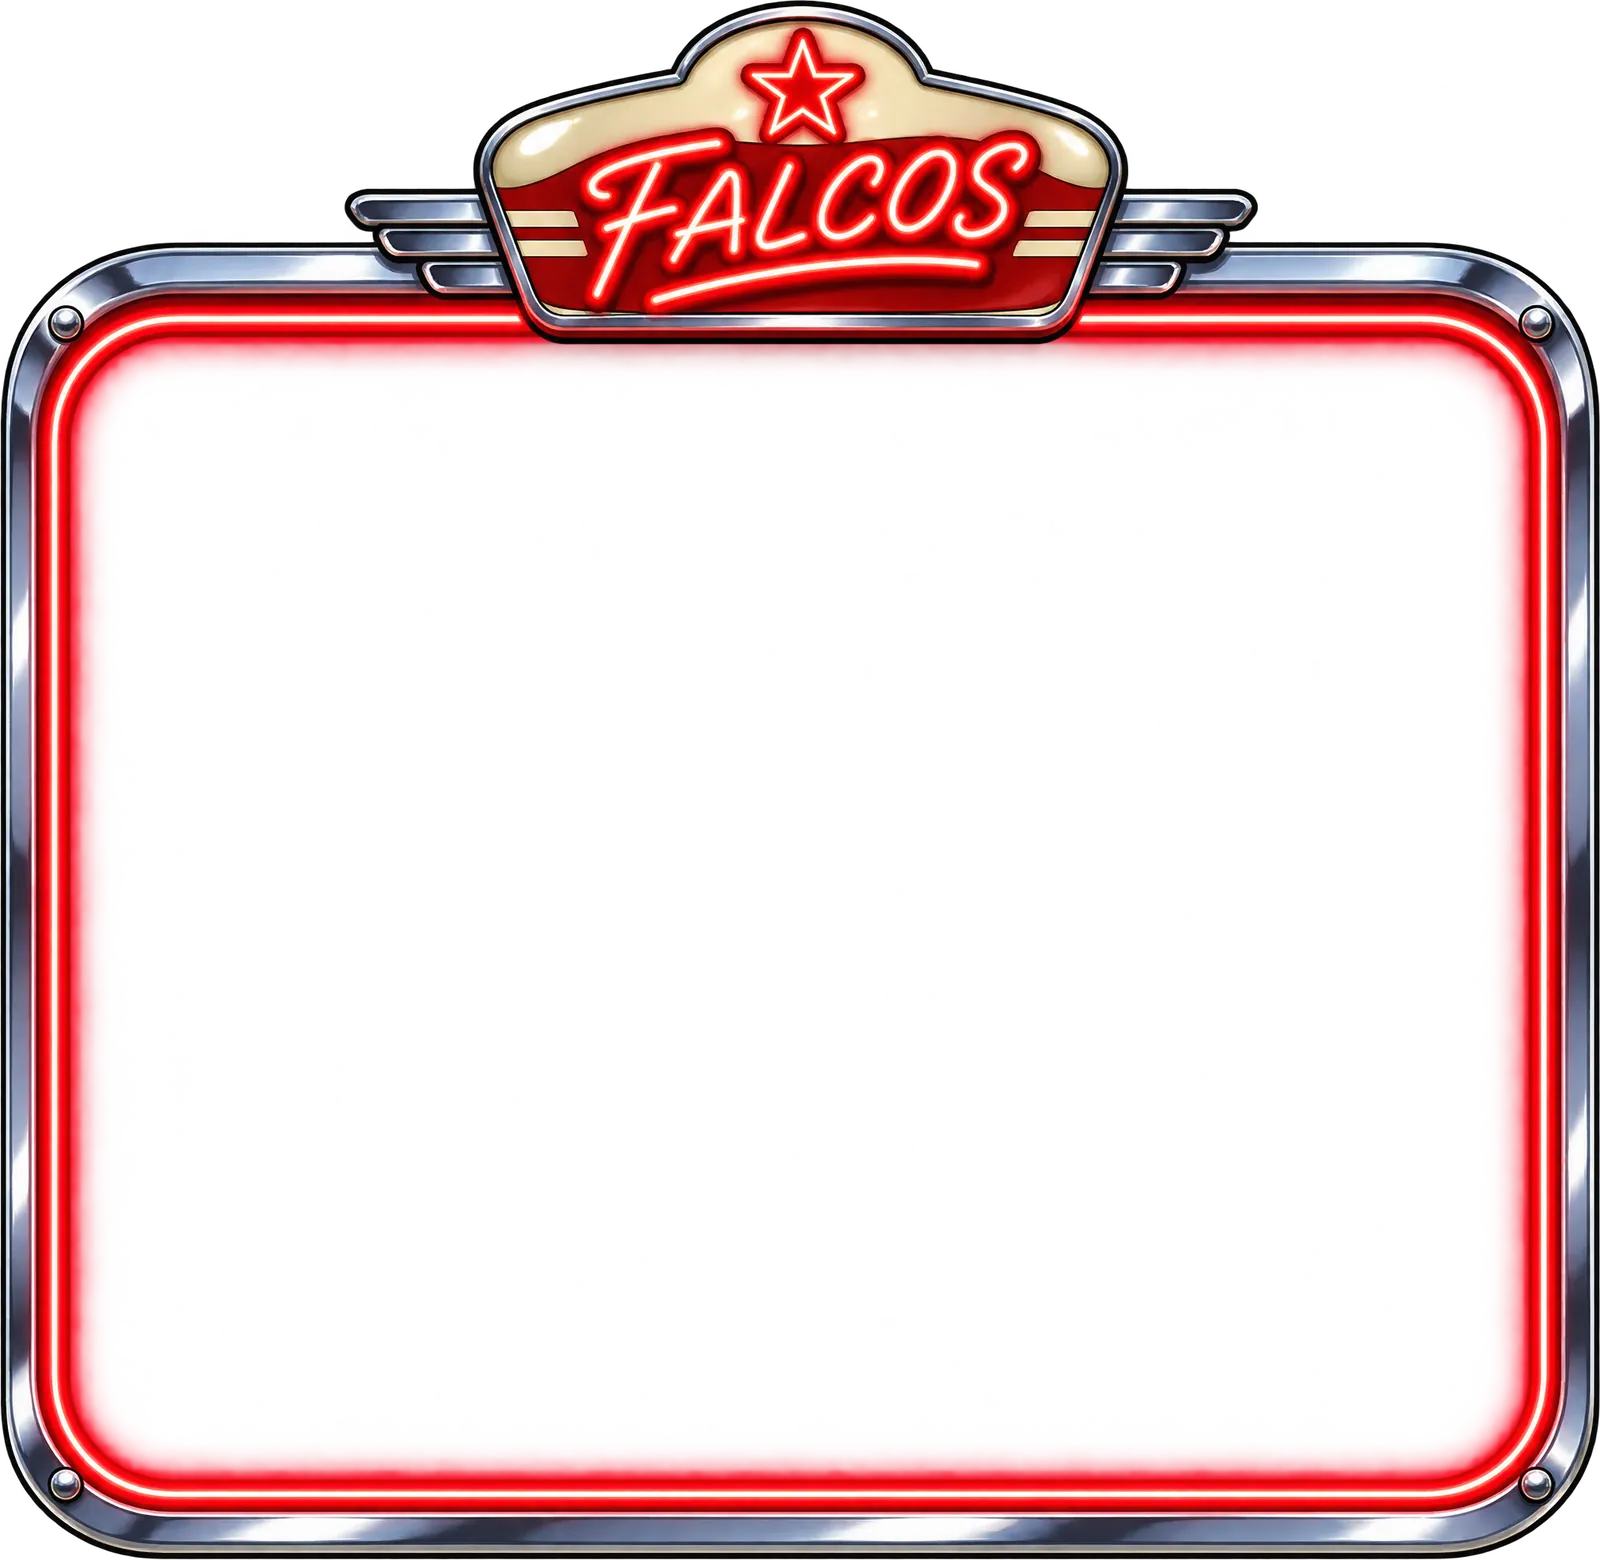
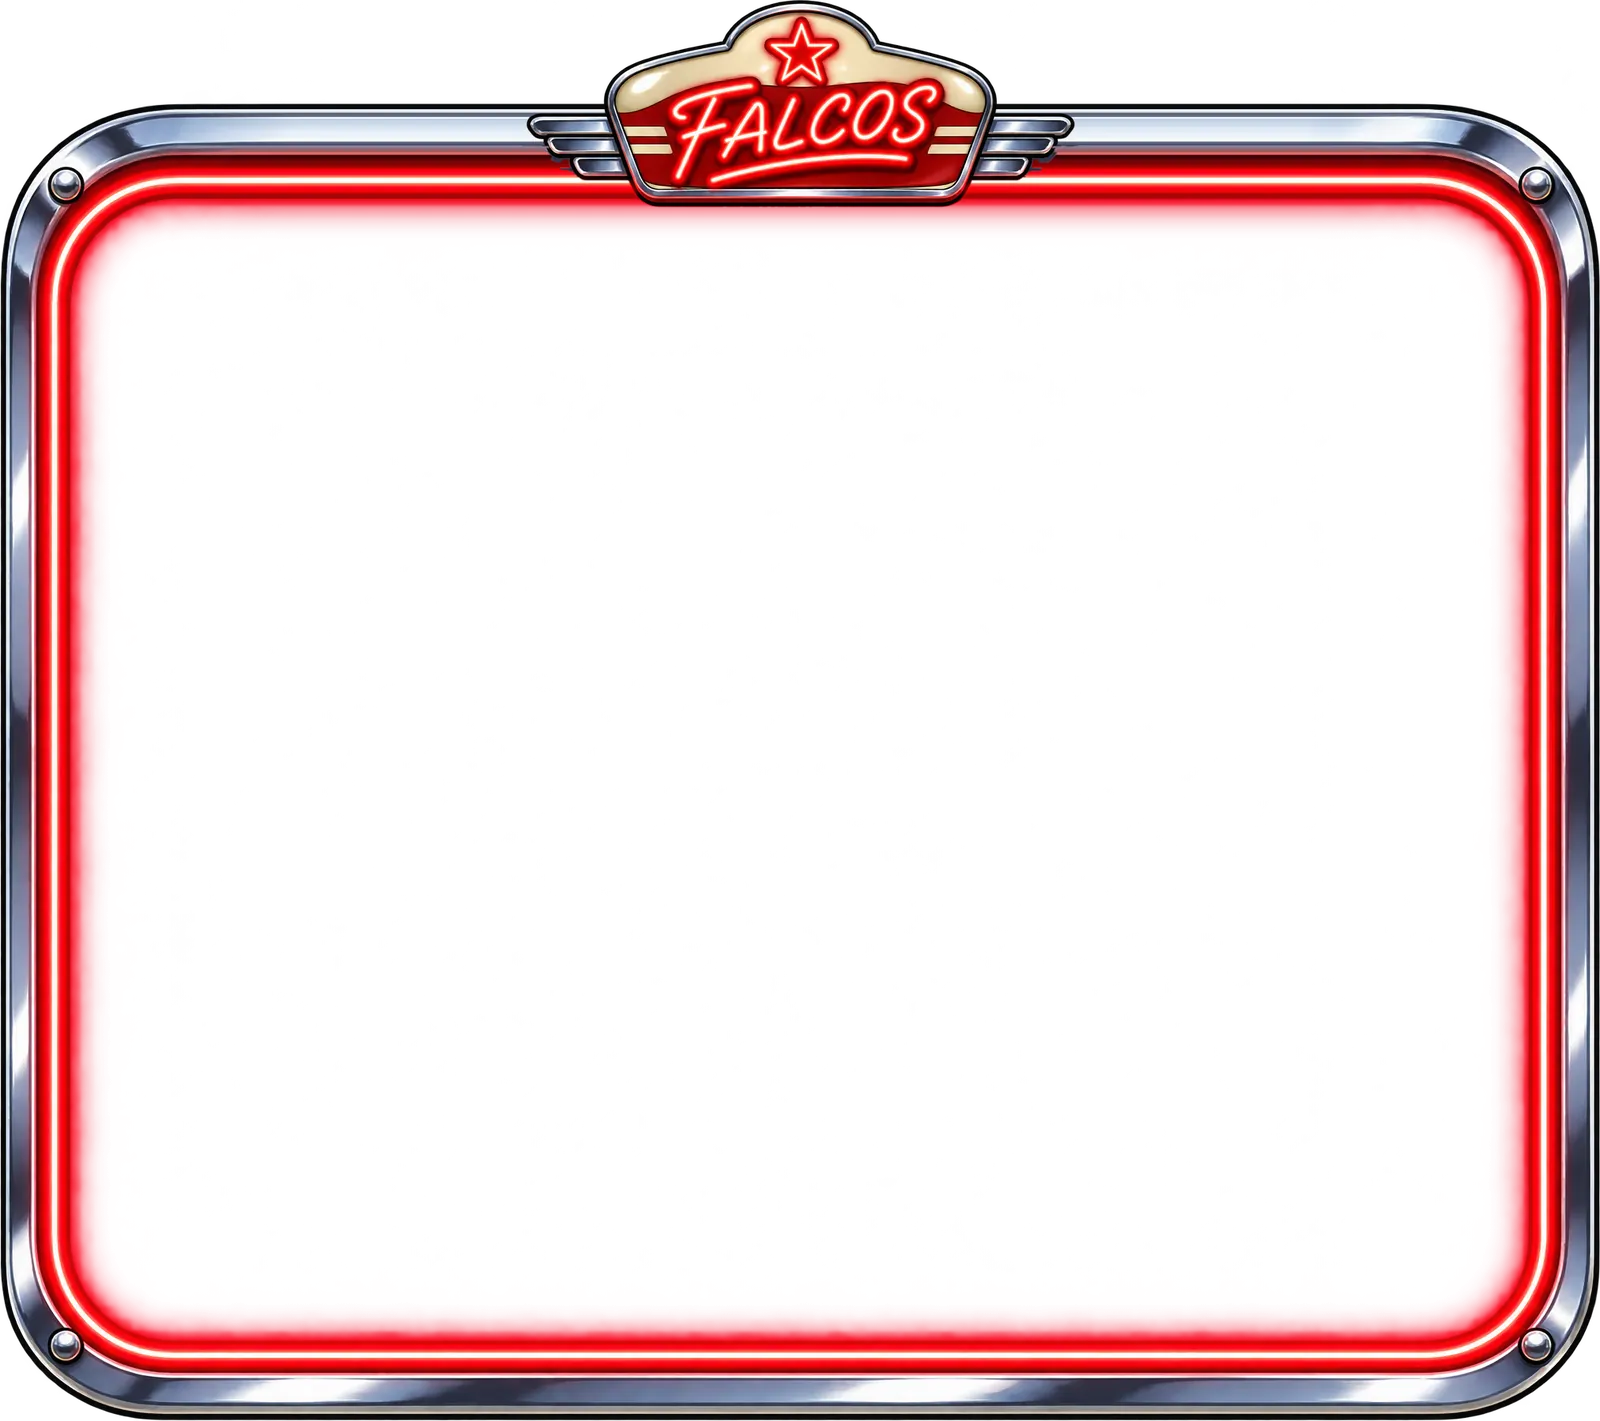
Falcos: bigger board again - the FALCOS sign on the frame at 60% (shrink_topper.py: the chrome bar rebuilt under it), so the glass and every symbol are ~9% bigger on a wide screen

Changed region(s): [[0.0, 0.0, 1.0, 1.0]]

diff --git a/frontend/index.html b/frontend/index.html
@@ -77,7 +77,7 @@
     --sym-fit: .92;    /* a symbol fills this share of its tile (SYM_FIT in the script, boardgl.js) */
     /* frame_sq.webp's glass opening, as fractions of the picture (frame_sq.json - startBoardFrame() sets
        them from the file, these are only the fallback): left, top, width, height */
-    --fo-l: .0499; --fo-t: .2225; --fo-w: .90119; --fo-h: .72023;
+    --fo-l: .0504; --fo-t: .14627; --fo-w: .90118; --fo-h: .79088;
   }
   @media (max-width: 900px) and (max-height: 1000px), (max-height: 500px) {
     :root { --wall-img: url("assets/bonus_wall_m.webp"); --zombie-img: url("assets/scene/plate_zombie_m.webp"); }

diff --git a/tools/falcos/shrink_topper.py b/tools/falcos/shrink_topper.py
@@ -1,0 +1,81 @@
+"""The board frame with a smaller FALCOS sign: art/falcos/raw/board_frame_sq.png -> board_frame_sq_small.png
+
+    .venv/bin/python tools/falcos/shrink_topper.py [SCALE]      (default .6; then compress_assets.py)
+
+The page is fitted to the screen's height, and the sign on top of the frame was a sixth of the frame's
+height - room the board could not use (owner, 2026-11-10: "make it fill in the screen more"). This:
+  * rebuilds the chrome bar under the sign from a plain stretch of it (a strip right of the right wing,
+    tiled across: the bar is the same all along);
+  * lifts the sign out (everything above the bar, plus whatever differs from the rebuilt bar: the plate,
+    its wings and its shadow on the bar);
+  * puts it back at SCALE, centred, its foot where it was - so it still overlaps the bar the same way.
+compress_assets.py trims the result and measures its glass opening (frame_sq.webp / frame_sq.json).
+"""
+import os, sys
+import numpy as np
+from PIL import Image, ImageFilter
+
+ROOT = os.path.dirname(os.path.dirname(os.path.dirname(os.path.abspath(__file__))))
+RAW = os.path.join(ROOT, 'art', 'falcos', 'raw')
+SCALE = float(sys.argv[1]) if len(sys.argv) > 1 else .6
+
+src = Image.open(os.path.join(RAW, 'board_frame_sq.png')).convert('RGBA')
+a = np.array(src).astype(np.int16)
+H, W = a.shape[:2]
+A = a[..., 3]
+
+# the bar: its top edge (first solid row at the plain strip) and the foot of its neon glow
+STRIP = (1700, 1740)
+col = A[:, STRIP[0]]
+bar_top = int(np.argmax(col > 40))
+bar_bot = bar_top + int(np.argmax(col[bar_top:] < 2)) + 4
+# the sign's span: what is solid above the bar
+above = A[:bar_top] > 40
+xs = np.where(above.any(axis=0))[0]
+sx0, sx1 = int(xs.min()) - 8, int(xs.max()) + 9
+sy0 = int(np.argmax(above.any(axis=1)))
+
+# the bar rebuilt under the sign: the plain strip tiled across, nothing above the bar
+bar = a.copy()
+# one column, averaged over the strip, stretched across (a tiled strip showed its seams)
+# over the bar's whole straight run, faded into the original over FADE px at each end (no seam)
+column = a[bar_top:bar_bot, STRIP[0]:STRIP[1]].mean(axis=1)
+RUN, FADE = (230, 1820), 160
+k = np.clip(np.minimum(np.arange(W) - RUN[0], RUN[1] - np.arange(W)) / FADE, 0, 1)[None, :, None]
+bar[bar_top:bar_bot] = (a[bar_top:bar_bot] * (1 - k) + column[:, None, :] * k).round().astype(np.int16)
+bar[:bar_top, sx0:sx1] = 0
+
+# the sign: everything above the bar, plus what differs from the rebuilt bar (the plate, wings, shadow)
+diff = np.abs(a - bar).max(axis=2)
+m = np.zeros((H, W), np.uint8)
+m[:bar_top, sx0:sx1] = 255
+# in the bar's rows the sign is what its black outline closes off: flood the bar from the region's sides
+# and foot through everything that is not outline - what the flood cannot reach is the plate and the wings
+# (and of that, only what differs from the plain bar: the bar's own outline stays with the bar)
+from scipy import ndimage
+rgb = a[bar_top:bar_bot, sx0:sx1, :3].astype(np.float32)
+luma = rgb @ np.array([.299, .587, .114], np.float32)
+wall = (luma < 60) & (A[bar_top:bar_bot, sx0:sx1] > 160)
+lab, _ = ndimage.label(~wall)
+edge = np.unique(np.concatenate([lab[:, 0], lab[:, -1], lab[-1, :]]))
+outside = np.isin(lab, edge[edge > 0])
+region = ndimage.binary_fill_holes(~outside & ~(wall & (diff[bar_top:bar_bot, sx0:sx1] <= 40)))
+m[bar_top:bar_bot, sx0:sx1] = np.where(region, 255, 0)
+# only what hangs together with the sign above the bar
+lab, _ = ndimage.label(m > 0)
+keep = np.unique(lab[bar_top - 1][lab[bar_top - 1] > 0])
+m = np.where(ndimage.binary_fill_holes(np.isin(lab, keep)), 255, 0).astype(np.uint8)
+mask = Image.fromarray(m).filter(ImageFilter.MaxFilter(3)).filter(ImageFilter.GaussianBlur(1))
+rows = np.where(np.array(mask).max(axis=1) > 128)[0]
+sy1 = int(rows.max()) + 2
+sign = src.copy()
+sign.putalpha(Image.fromarray((np.array(src.getchannel('A')).astype(np.float32) * np.array(mask) / 255).astype(np.uint8)))
+sign = sign.crop((sx0, sy0, sx1, sy1))
+
+out = Image.fromarray(bar.clip(0, 255).astype(np.uint8))
+small = sign.resize((round(sign.width * SCALE), round(sign.height * SCALE)), Image.LANCZOS)
+cx = (sx0 + sx1) / 2
+out.alpha_composite(small, (round(cx - small.width / 2), sy1 - small.height))
+dst = os.path.join(RAW, 'board_frame_sq_small.png')
+out.save(dst)
+print(f'bar {bar_top}-{bar_bot}, sign x {sx0}-{sx1} y {sy0}-{sy1} -> x{SCALE}: top {sy1 - small.height} (was {sy0}); {dst}')

diff --git a/tools/falcos/compress_assets.py b/tools/falcos/compress_assets.py
@@ -16,7 +16,8 @@ every output, so a re-run only touches newly installed art and never re-encodes 
   5. everything else (never the HUD's own art: HUD) - downscaled to MAX_SIDE (2x the largest size it is ever drawn at 1600x900; the
                       app is scaled to fit, so this is 1600x900 at DPR 2 / 3200x1800 at DPR 1) and
                       re-encoded as lossy WebP (alpha kept where the picture has any)
-  6. the board frame - art/falcos/raw/board_frame_sq.png (when it exists) trimmed to frame_sq.webp and its
+  6. the board frame - art/falcos/raw/board_frame_sq_small.png (shrink_topper.py: the sign at 60%) or
+                      board_frame_sq.png (when it exists) trimmed to frame_sq.webp and its
                       glass opening measured into frame_sq.json; otherwise frame_sq is built from
                       board_frame_v3.png's slim bezel + topper at the board's squarer shape
   7. FILL UP art    - art/falcos/raw/fillup_{backing,cell2,gauge}.png (when they exist) -> assets/fillup/
@@ -340,7 +341,9 @@ def build_frame_from_v3(aspect):
 
 
 def step_frame():
-    sq = os.path.join(RAW, 'board_frame_sq.png')
+    sq = os.path.join(RAW, 'board_frame_sq_small.png')   # the smaller sign (shrink_topper.py), when it is built
+    if not os.path.exists(sq):
+        sq = os.path.join(RAW, 'board_frame_sq.png')
     dst = os.path.join(F, 'frame_sq.webp')
     src_tag = ('sq:' + sha(sq) if os.path.exists(sq) else 'v3') + f'@{FRAME_MAX}'
     if state.get('frame_sq.src') == src_tag and done('frame_sq.webp'):
